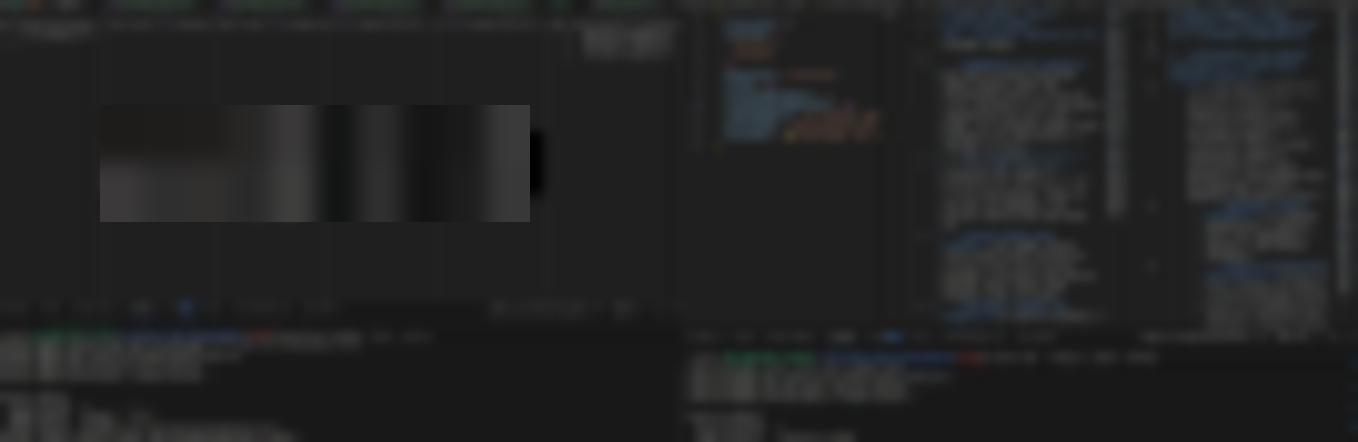
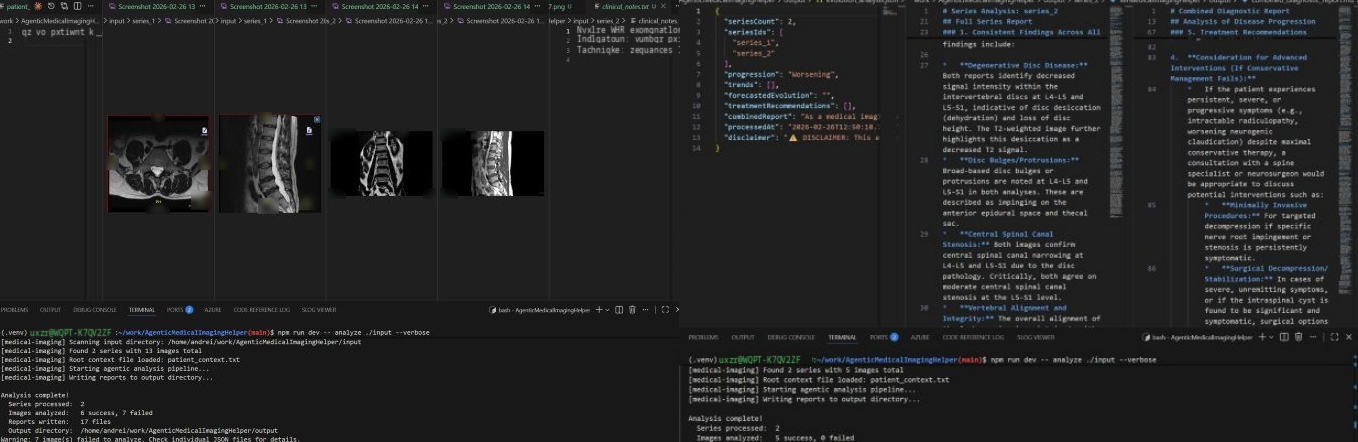
docs: screenshot shows the tool again; only identifying details redacted
Replaces the fully blurred screenshot with the original, redacted only
where it could identify someone: the patient-context line, the clinical
notes and the user@host terminal prompts carry made-up text, and the text
burned into the MRI thumbnails is blurred. Scans, reports and CLI output
stay visible.

diff --git a/CHANGELOG.md b/CHANGELOG.md
@@ -12,7 +12,7 @@ All changes in this section are **backward-compatible** (`additive` or
 renamed.
 
 - Docs: `CODE_OF_CONDUCT.md` names where to report conduct issues: a GitHub private report or the contact page of the maintainer's website.
-- Docs: `docs/screenshot.png` redacted — every MRI thumbnail and all text (file names, clinical notes, report text, terminal paths, user and host name) is blurred beyond recognition; only the window layout remains.
+- Docs: `docs/screenshot.png` redacted only where it could identify someone: the patient-context line, the clinical notes and the user and host name in the terminal prompts carry made-up text, and the text burned into the MRI thumbnails is blurred. The scans, reports and CLI output stay visible.
 - Docs: documentation audit of 2026-10-29 — provider-neutral data-handling text, exit-code lists completed, current architecture diagrams, AGENTS.md, CI and release notes in CONTRIBUTING, scope notes on the pre-implementation PRD and business case.
 - Fixed: `package.json`, `CITATION.cff` and the security-baseline exclude flag
   say 1.1.1. The v1.1.1 release was cut with them at 1.1.0, so its `--version`,
